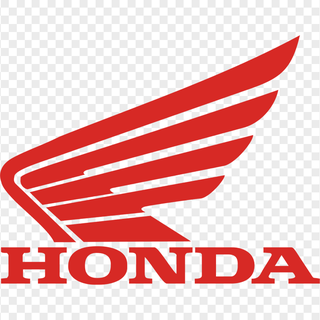
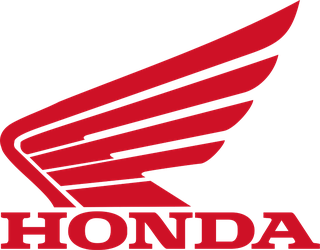
Let a member card hold several bikes, with arrows to page between them
Members can now carry a `photos` array, one shot per bike; `photo` still
works for single-bike riders. Cards with more than one show arrows and a
counter. Rohit has his Fat Boy and Valkyrie.

Which slide shows is driven by the container's data-idx, so a framework
re-render lands on a valid state with no JS re-initialisation. The arrow
handling deliberately sits outside the framework: routing it through
setState would re-render the list and throw away the rail's scroll
position mid-browse.

Also replaces the Honda mark with the supplied wing. That file had a
transparency checkerboard painted into it, so alpha is derived from
redness rather than trusting its alpha channel.

diff --git a/index.html b/index.html
@@ -108,6 +108,40 @@
   .tt-brand-logo img { height:clamp(38px, 4.9vw, 58px); width:auto; display:block; }
   .tt-brand-word { font-family:Anton, sans-serif; font-size:clamp(17px, 2.3vw, 27px); letter-spacing:0.03em; white-space:nowrap; }
   @keyframes tt-scroll { from { transform:translateX(0); } to { transform:translateX(-50%); } }
+  /* Per-member photo carousel. Which slide shows is driven purely by the
+     container's data-idx, so a framework re-render restores a valid state
+     without needing JS to re-initialise. */
+  .tt-photos { position:absolute; inset:0; }
+  .tt-photo {
+    position:absolute; inset:0; opacity:0; transition:opacity .35s ease;
+    background-color:#0D0C0B; background-size:cover;
+    background-position:center top; background-repeat:no-repeat;
+  }
+  .tt-photos[data-idx="0"] .tt-photo:nth-of-type(1),
+  .tt-photos[data-idx="1"] .tt-photo:nth-of-type(2),
+  .tt-photos[data-idx="2"] .tt-photo:nth-of-type(3),
+  .tt-photos[data-idx="3"] .tt-photo:nth-of-type(4),
+  .tt-photos[data-idx="4"] .tt-photo:nth-of-type(5),
+  .tt-photos[data-idx="5"] .tt-photo:nth-of-type(6) { opacity:1; }
+  .tt-arrow {
+    position:absolute; top:50%; transform:translateY(-50%); z-index:3;
+    display:flex; align-items:center; justify-content:center;
+    width:34px; height:34px; border-radius:50%;
+    background:rgba(13,12,11,0.62); border:1px solid #2A241D;
+    color:#F3ECE0; font-family:Barlow, sans-serif; font-size:22px; line-height:1;
+    cursor:pointer; user-select:none; opacity:0; transition:opacity .2s ease, background .2s ease;
+  }
+  .tt-arrow:hover { background:#C9852A; color:#0D0C0B; }
+  .tt-prev { left:8px; } .tt-next { right:8px; }
+  /* Revealed on hover for mice; always visible on touch, which has no hover. */
+  .tt-photos:hover .tt-arrow, .tt-arrow:focus-visible { opacity:1; }
+  @media (hover: none) { .tt-arrow { opacity:0.85; } }
+  .tt-count {
+    position:absolute; top:10px; right:10px; z-index:3;
+    font-family:'Barlow Condensed',sans-serif; font-size:12px; letter-spacing:0.12em;
+    color:#E8D6AE; background:rgba(13,12,11,0.62); border:1px solid #2A241D;
+    padding:3px 8px;
+  }
   /* Members scroll sideways on every device. Stacking each rider vertically
      makes the page unusably long once the Tribe grows past a handful. */
   .tt-members {
@@ -481,7 +515,16 @@
           <div style="border:1px solid #2A241D;background:#110F0D">
             <div style="aspect-ratio:4/5;background:repeating-linear-gradient(115deg,#1A1611 0px,#1A1611 9px,#151109 9px,#151109 18px);border-bottom:1px solid #2A241D;display:flex;align-items:flex-end;padding:12px;position:relative;overflow:hidden">
               <sc-if value="{{ m.hasPhoto }}">
-                <div style="position:absolute;inset:0;background-color:#0D0C0B;background-size:cover;background-position:center top;background-repeat:no-repeat;background-image:{{ m.photoCss }}"></div>
+                <div class="tt-photos" data-idx="0">
+                  <sc-for list="{{ m.photos }}" as="p" hint-placeholder-count="2">
+                    <div class="tt-photo" style="background-image:{{ p.css }}"></div>
+                  </sc-for>
+                  <sc-if value="{{ m.multi }}">
+                    <span class="tt-arrow tt-prev" role="button" tabindex="0" aria-label="Previous bike">&#8249;</span>
+                    <span class="tt-arrow tt-next" role="button" tabindex="0" aria-label="Next bike">&#8250;</span>
+                    <span class="tt-count">{{ m.photoCount }}</span>
+                  </sc-if>
+                </div>
               </sc-if>
               <sc-if value="{{ m.noPhoto }}">
                 <span style="font-family:Anton,sans-serif;font-size:15px;letter-spacing:0.22em;color:#6B5A42;opacity:0.85">THROTTLE TRIBE</span>
@@ -909,7 +952,7 @@
     </div>
     <div class="tt-marquee" style="margin-top:clamp(28px, 20px + 2vw, 44px)">
       <div class="tt-track">
-        <span class="tt-brand tt-brand-logo" title="Honda"><img src="assets/brands/honda.png" alt="Honda" width="320" height="320" /></span>
+        <span class="tt-brand tt-brand-logo" title="Honda"><img src="assets/brands/honda.png" alt="Honda" width="320" height="250" /></span>
         <span class="tt-brand tt-brand-logo" title="Yamaha"><img src="assets/brands/yamaha.svg" alt="Yamaha" /></span>
         <span class="tt-brand tt-brand-logo" title="BMW"><img src="assets/brands/bmw.svg" alt="BMW" /></span>
         <span class="tt-brand tt-brand-logo" title="Ducati"><img src="assets/brands/ducati.svg" alt="Ducati" /></span>
@@ -922,7 +965,7 @@
         <span class="tt-brand tt-brand-logo" title="Indian Motorcycle"><img src="assets/brands/indian.png" alt="Indian Motorcycle" width="320" height="120" /></span>
         <span class="tt-brand tt-brand-logo" title="Victory"><img src="assets/brands/victory.png" alt="Victory Motorcycles" width="320" height="171" /></span>
         <span class="tt-brand tt-brand-logo" title="Kawasaki"><img src="assets/brands/kawasaki.svg" alt="Kawasaki" /></span>
-        <span class="tt-brand tt-brand-logo" aria-hidden="true" title="Honda"><img src="assets/brands/honda.png" alt="Honda" width="320" height="320" /></span>
+        <span class="tt-brand tt-brand-logo" aria-hidden="true" title="Honda"><img src="assets/brands/honda.png" alt="Honda" width="320" height="250" /></span>
         <span class="tt-brand tt-brand-logo" aria-hidden="true" title="Yamaha"><img src="assets/brands/yamaha.svg" alt="Yamaha" /></span>
         <span class="tt-brand tt-brand-logo" aria-hidden="true" title="BMW"><img src="assets/brands/bmw.svg" alt="BMW" /></span>
         <span class="tt-brand tt-brand-logo" aria-hidden="true" title="Ducati"><img src="assets/brands/ducati.svg" alt="Ducati" /></span>
@@ -994,7 +1037,7 @@ const RIDES = [
 ];
 
 const MEMBERS = [
-  { name:'Rohit', style:'TOURING', bike:'Harley Davidson FatBoy Stage 1 - 114 & Honda Valkyrie 150', intro:'Associated HOG member.', years:'30+ YEARS RIDING', favourite:'FAV: SNAKE PASS', photo:'assets/member-rohit.jpeg', photoNote:'member bike photo, 4:3' },
+  { name:'Rohit', style:'TOURING', bike:'Harley Davidson FatBoy Stage 1 - 114 & Honda Valkyrie 150', intro:'Associated HOG member.', years:'30+ YEARS RIDING', favourite:'FAV: SNAKE PASS', photos:['assets/member-rohit.jpeg','assets/member-rohit-valkyrie.jpg'], photoNote:'member bike photo, 4:3' },
   { name:'Shiwaan', style:'SPORTS', bike:'Honda CB500F', intro:'Riding since 2013, with a bike trip to Ladakh among the highlights.', years:'13 YEARS RIDING', favourite:'FAV: COASTAL RIDE', photo:'assets/member-shiwaan.webp', photoNote:'member bike photo, 4:3' },
   { name:'Hari', style:'ADVENTURE', bike:'BMW R 1300 GSA & Kawasaki Z900 RS', intro:'Rode in Delhi for a decade before moving to Birmingham. Happiest on a long straight road.', years:'30+ YEARS RIDING', favourite:'FAV: WALES WEEKEND', photo:'assets/member-hari.jpeg', photoNote:'member bike photo, 4:3' },
   { name:'Ali', style:'TOURING', bike:'Triumph Rocket 3, Victory & Ducati Diavel', intro:'Has done the NC500 three times and will talk you through every mile of it.', years:'30+ YEARS RIDING', favourite:'FAV: SCOTLAND TOUR', photo:'assets/member-ali.png', photoNote:'member bike photo, 4:3' },
@@ -1122,8 +1165,15 @@ class Component extends DCLogic {
         border: filter === s ? '#C9852A' : '#2A241D',
       })),
       visibleMembers: (filter === 'ALL' ? MEMBERS : MEMBERS.filter(m => m.style === filter))
-        .map(m => ({ ...m, hasPhoto: !!m.photo, noPhoto: !m.photo, photoCss: m.photo ? `url('${m.photo}')` : 'none',
-          hasIntro: !!m.intro, hasMeta: !!(m.years || m.favourite) })),
+        .map(m => {
+          // `photos` (one per bike) is preferred; `photo` stays supported for single-bike riders.
+          const pics = m.photos && m.photos.length ? m.photos : (m.photo ? [m.photo] : []);
+          return { ...m,
+            hasPhoto: pics.length > 0, noPhoto: pics.length === 0,
+            photos: pics.map((p, i) => ({ css: `url('${p}')`, key: m.name + i })),
+            multi: pics.length > 1, photoCount: pics.length > 1 ? '1 / ' + pics.length : '',
+            hasIntro: !!m.intro, hasMeta: !!(m.years || m.favourite) };
+        }),
     };
   }
 }
@@ -1156,6 +1206,31 @@ class Component extends DCLogic {
     requestAnimationFrame(step);
   }
   requestAnimationFrame(step);
+
+
+  function slide(arrow, dir) {
+    var box = arrow.parentNode;
+    var n = box.querySelectorAll('.tt-photo').length;
+    if (n < 2) return;
+    var i = parseInt(box.getAttribute('data-idx'), 10) || 0;
+    i = ((i + dir) % n + n) % n;
+    box.setAttribute('data-idx', i);
+    var label = box.querySelector('.tt-count');
+    if (label) label.textContent = (i + 1) + ' / ' + n;
+  }
+  document.addEventListener('click', function (e) {
+    var a = e.target.closest && e.target.closest('.tt-arrow');
+    if (!a) return;
+    e.preventDefault(); e.stopPropagation();
+    slide(a, a.classList.contains('tt-next') ? 1 : -1);
+  }, true);
+  document.addEventListener('keydown', function (e) {
+    if (e.key !== 'Enter' && e.key !== ' ') return;
+    var a = e.target.closest && e.target.closest('.tt-arrow');
+    if (!a) return;
+    e.preventDefault();
+    slide(a, a.classList.contains('tt-next') ? 1 : -1);
+  }, true);
 
   function touched(e) { if (e.target.closest && e.target.closest('.tt-members')) lastTouched = Date.now(); }
   ['pointerdown', 'wheel', 'touchstart', 'keydown'].forEach(function (t) {
